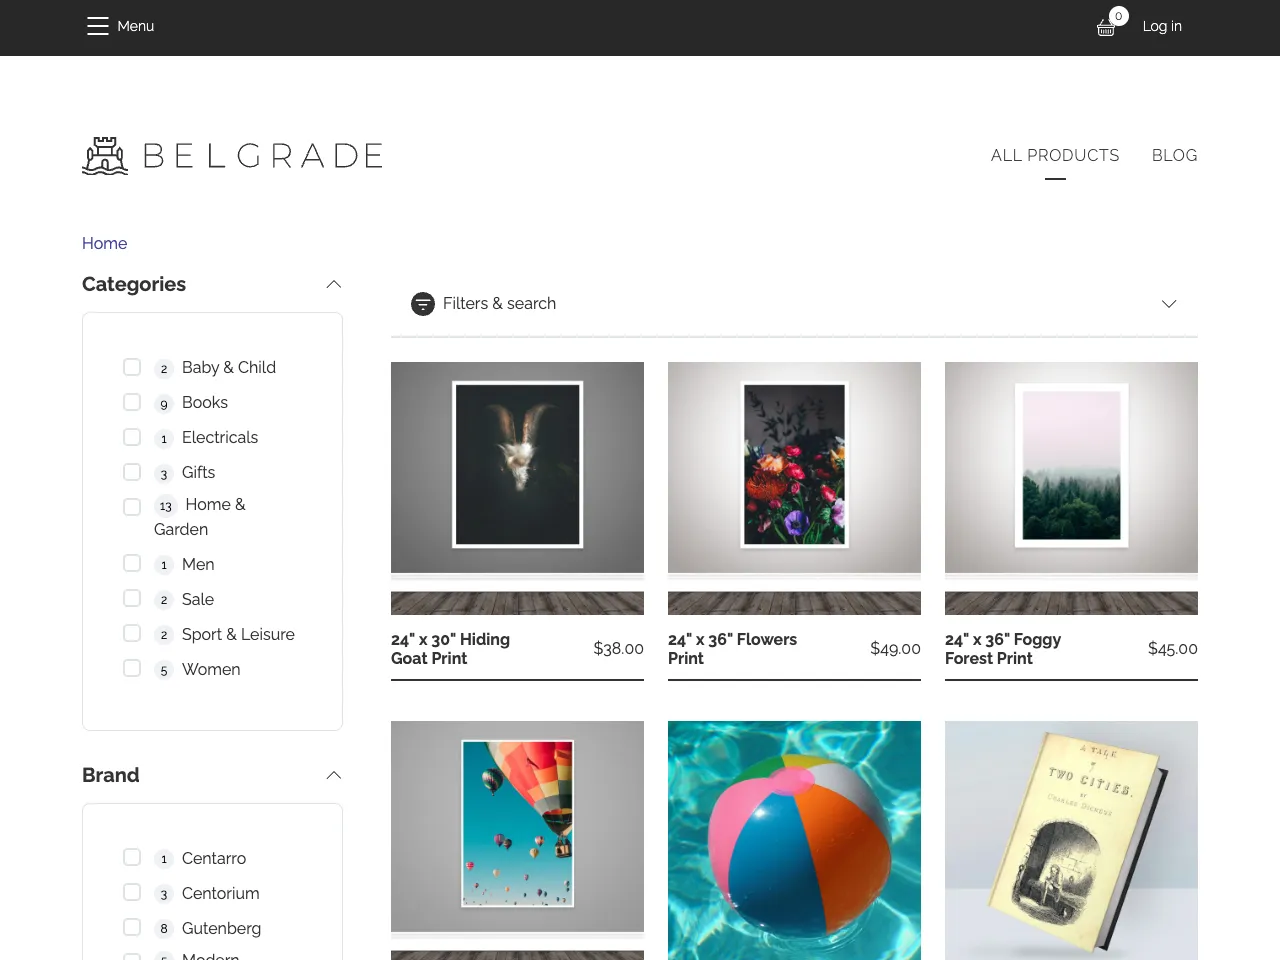
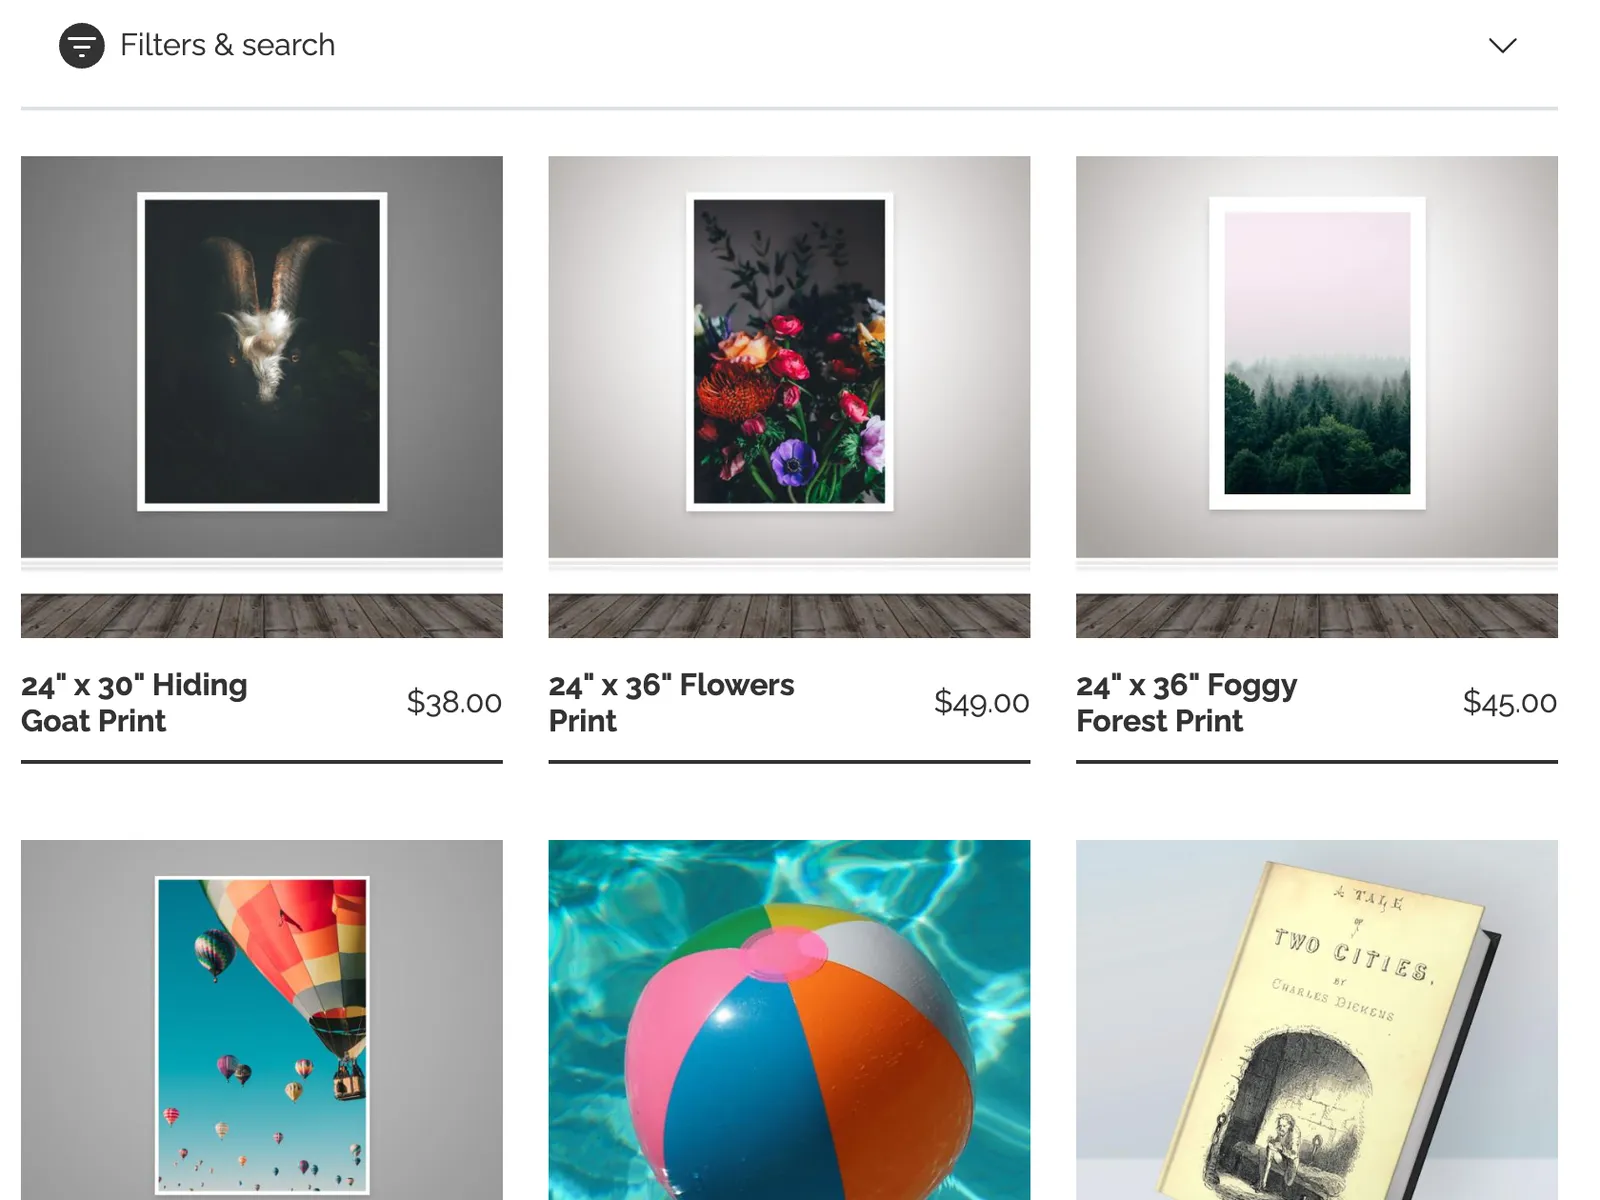
Recapture the demo screenshots so the tiles are readable (#682)

diff --git a/web/modules/custom/simplytest_ocd/src/Controller/Resources.php b/web/modules/custom/simplytest_ocd/src/Controller/Resources.php
@@ -49,6 +49,7 @@ class Resources implements ContainerInjectionInterface {
     InstanceManagerInterface $instance_manager,
     private readonly ModuleExtensionList $moduleList,
     private readonly FileUrlGeneratorInterface $fileUrlGenerator,
+    private readonly string $root,
   ) {
     $this->manager = $manager;
     $this->instanceManager = $instance_manager;
@@ -64,6 +65,7 @@ class Resources implements ContainerInjectionInterface {
       $container->get('simplytest_tugboat.instance_manager'),
       $container->get('extension.list.module'),
       $container->get('file_url_generator'),
+      (string) $container->getParameter('app.root'),
     );
   }
 
@@ -231,6 +233,10 @@ class Resources implements ContainerInjectionInterface {
    * @param array<string, mixed> $definition
    *   The demo's plugin definition.
    *
+   * Fastly keeps static files for 30 days, so a screenshot replaced under the
+   * same name would not show until that ran out. The URL carries a hash of the
+   * file to give a replaced one a new URL.
+   *
    * @return string|null
    *   A root-relative URL, or NULL when the demo has no screenshot.
    */
@@ -239,9 +245,10 @@ class Resources implements ContainerInjectionInterface {
     if (!is_string($screenshot) || !is_string($definition['provider'] ?? NULL)) {
       return NULL;
     }
-    return $this->fileUrlGenerator->generateString(
-      $this->moduleList->getPath($definition['provider']) . '/' . $screenshot,
-    );
+    $path = $this->moduleList->getPath($definition['provider']) . '/' . $screenshot;
+    $url = $this->fileUrlGenerator->generateString($path);
+    $hash = is_file("$this->root/$path") ? hash_file('xxh3', "$this->root/$path") : FALSE;
+    return $hash === FALSE ? $url : "$url?v=" . substr($hash, 0, 8);
   }
 
   /**

diff --git a/web/modules/custom/simplytest_ocd/tests/src/Kernel/ResourcesTest.php b/web/modules/custom/simplytest_ocd/tests/src/Kernel/ResourcesTest.php
@@ -152,13 +152,15 @@ final class ResourcesTest extends KernelTestBase {
     $screenshots = array_column($data, 'screenshot', 'id');
 
     $module_path = $this->container->get('extension.list.module')->getPath('simplytest_ocd');
+    $umami = $this->root . '/' . $module_path . '/images/umami.webp';
+    // The hash gives a replaced screenshot a new URL, past Fastly's cache.
     self::assertSame(
-      base_path() . $module_path . '/images/umami.webp',
+      base_path() . $module_path . '/images/umami.webp?v=' . substr((string) hash_file('xxh3', $umami), 0, 8),
       $screenshots['oneclickdemo_umami'],
     );
     foreach (['starshot', 'oneclickdemo_commerce', 'oneclickdemo_umami'] as $id) {
-      $path = substr((string) $screenshots[$id], strlen(base_path()));
-      self::assertFileExists($this->root . '/' . $path, $id);
+      $path = (string) parse_url((string) $screenshots[$id], PHP_URL_PATH);
+      self::assertFileExists($this->root . '/' . substr($path, strlen(base_path())), $id);
     }
     // Agent Access looks like Drupal CMS, so its tile draws its own preview.
     self::assertNull($screenshots['oneclickdemo_agent_access']);
